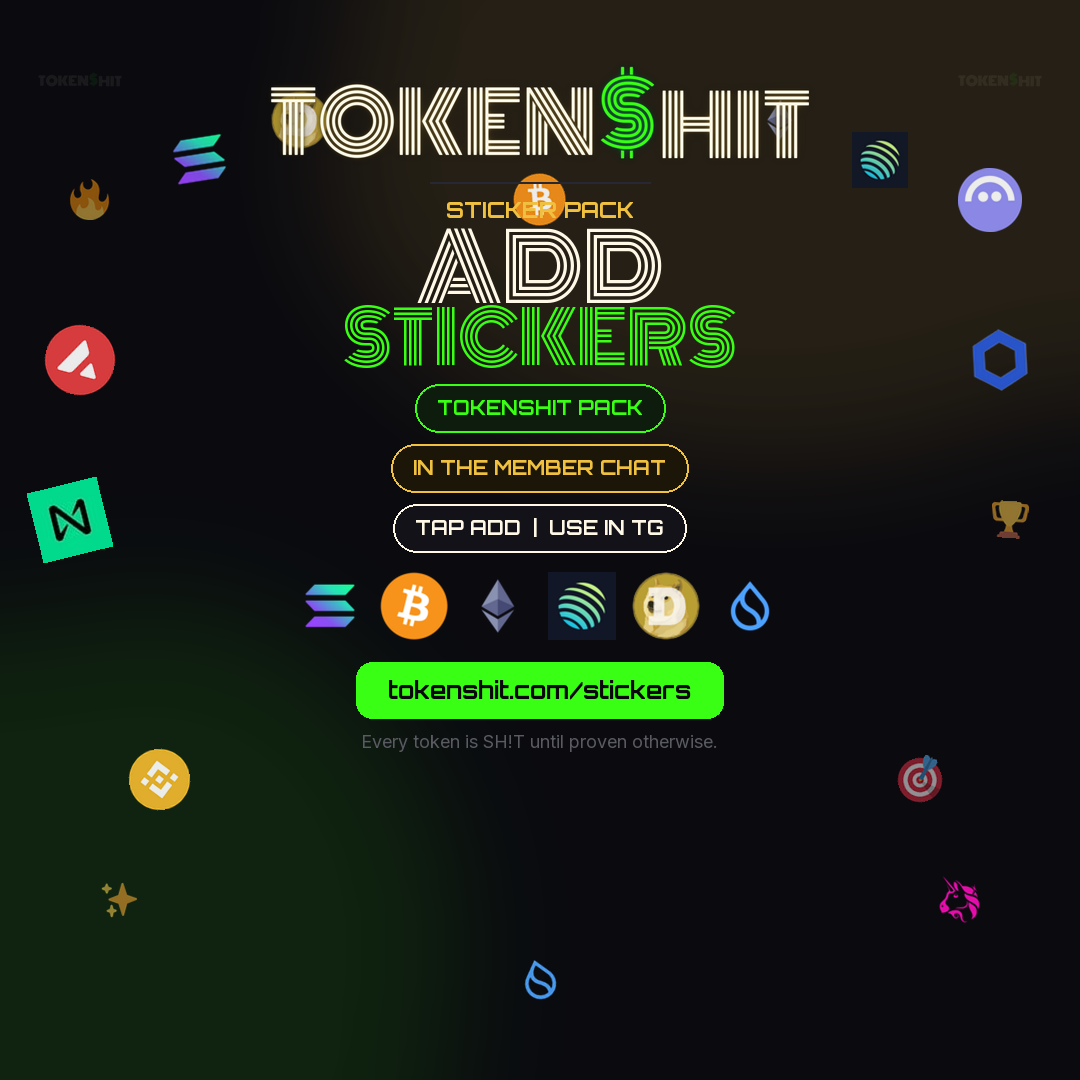
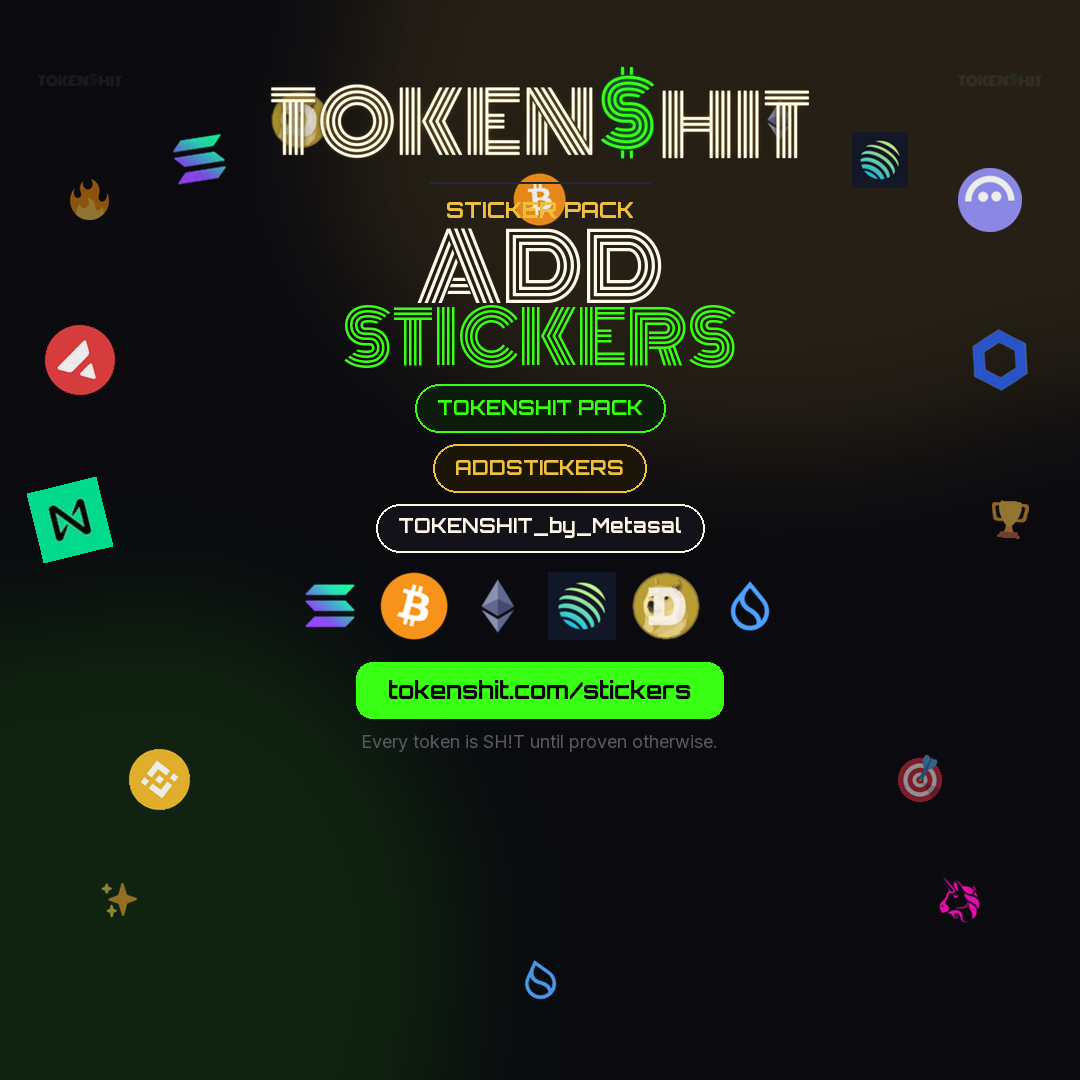
fix: /stickers to TOKENSHIT_by_Metasal pack (#496)
Middleware 302 for /chat and /stickers so Worker does not 404.

Changed region(s): [[0.3667, 0.3972, 0.6417, 0.5194]]

diff --git a/src/lib/brand.ts b/src/lib/brand.ts
@@ -20,8 +20,8 @@ export const BRAND = {
   xHandle: "Tokenshit_",
   /** Public member chat (invite). Site path /chat 302s here. */
   telegram: "https://t.me/+ulIwqDAawm02M2Vl",
-  /** Sticker pack. Site path /stickers 302s here. Pack lives in the member chat until a public addstickers URL exists. */
-  telegramStickers: "https://t.me/+ulIwqDAawm02M2Vl",
+  /** Sticker pack. Site path /stickers 302s here. */
+  telegramStickers: "https://t.me/addstickers/TOKENSHIT_by_Metasal",
   mint: "fEbiuDdZZ1QaWYpJFPqk23ZkaRnAyHg4aivhrCTshit",
   treasury: "SHTy7yoA5uAZoevKT3BFcSeDeFaHEyqWc55uApd3MJB",
   /** Play pot escrow */

diff --git a/src/middleware.ts b/src/middleware.ts
@@ -36,6 +36,20 @@ export function middleware(request: NextRequest) {
 
   const path = request.nextUrl.pathname;
 
+  if (path === "/chat") {
+    return withSecurityHeaders(
+      NextResponse.redirect("https://t.me/+ulIwqDAawm02M2Vl", 302)
+    );
+  }
+  if (path === "/stickers") {
+    return withSecurityHeaders(
+      NextResponse.redirect(
+        "https://t.me/addstickers/TOKENSHIT_by_Metasal",
+        302
+      )
+    );
+  }
+
   // Voting removed — old HIT/SHIT court URLs go to Play
   if (
     /^\/(hit|shit|boards|hitters|shitters)(\/|$)/i.test(path) ||

diff --git a/src/app/posters/page.tsx b/src/app/posters/page.tsx
@@ -28,7 +28,7 @@ const POSTERS: Poster[] = [
   },
   {
     title: "Sticker pack",
-    blurb: "TOKENSHIT stickers. Add from the member chat.",
+    blurb: "TOKENSHIT sticker pack. t.me/addstickers/TOKENSHIT_by_Metasal",
     href: "/stickers",
     src: "/brand/stickers-poster.png",
     src2x: "/brand/stickers-poster@2x.png",

diff --git a/scripts/generate-tg-poster.py b/scripts/generate-tg-poster.py
@@ -82,7 +82,7 @@ def build(kind: str) -> Image.Image:
         eye = "STICKER PACK"
         hero = "ADD"
         sub = "STICKERS"
-        p1, p2, p3 = "TOKENSHIT PACK", "IN THE MEMBER CHAT", "TAP ADD  |  USE IN TG"
+        p1, p2, p3 = "TOKENSHIT PACK", "ADDSTICKERS", "TOKENSHIT_by_Metasal"
         cta = "tokenshit.com/stickers"
     img = Image.alpha_composite(img, glow.filter(ImageFilter.GaussianBlur(72)))
     g.scatter_icons(img, __import__("random").Random(seed))
